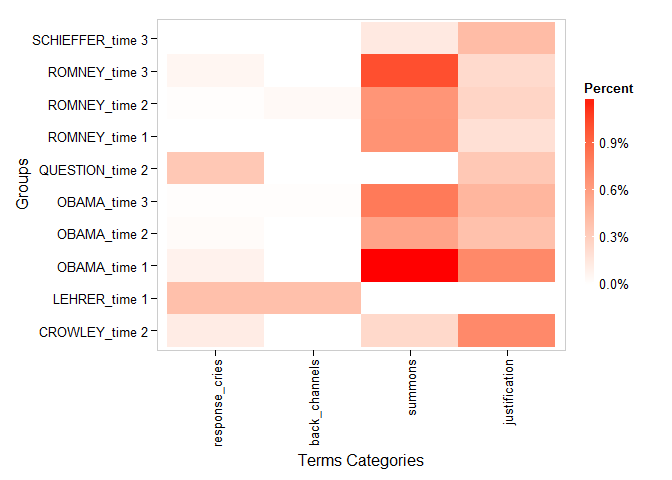
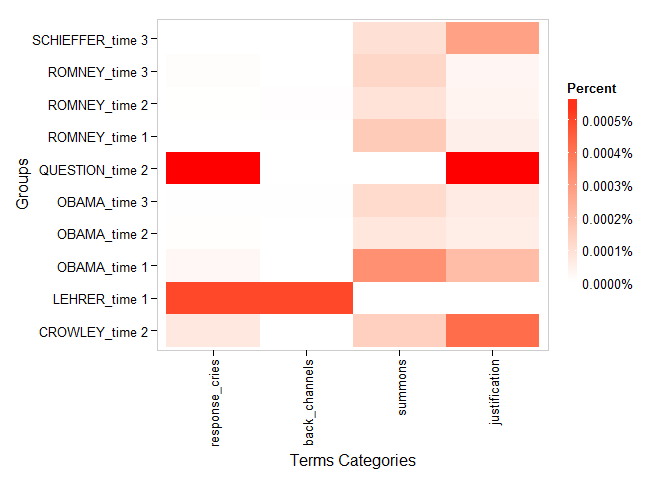
fixed plotting method

diff --git a/README.md b/README.md
@@ -78,6 +78,14 @@ Load the Tools/Data
 -------------------
 
     library(dplyr); library(ggplot2)
+
+    ## 
+    ## Attaching package: 'ggplot2'
+    ## 
+    ## The following object is masked from 'package:qdapRegex':
+    ## 
+    ##     %+%
+
     data(presidential_debates_2012)
 
 Build Counts Dataframe
@@ -740,7 +748,7 @@ to return all tags.
 
     ## .
     ##  back_channels  justification response_cries        summons 
-    ##              6            127             16            230
+    ##              6            124             17            232
 
     classify(model) %>%
         unlist() %>%
